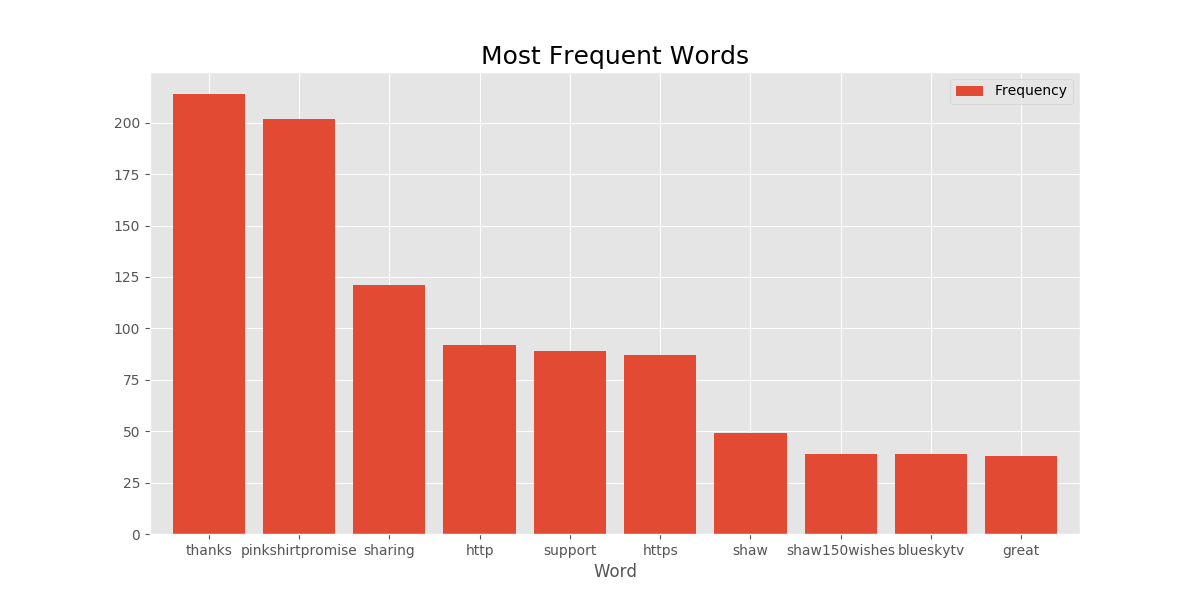
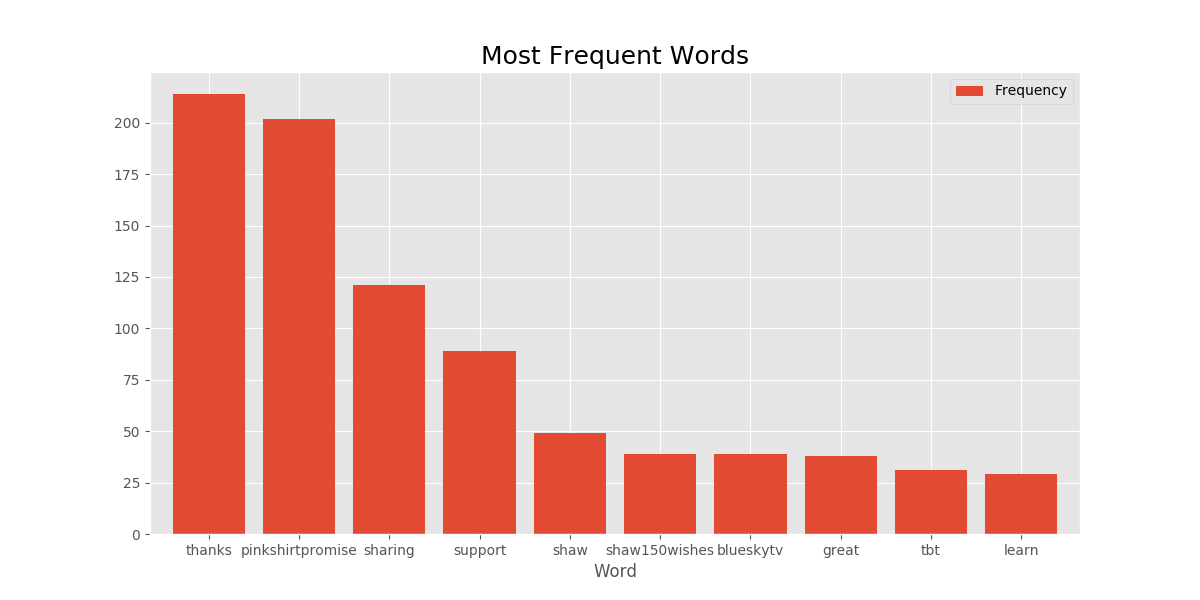
added a few more stopwords to freq count

diff --git a/WordFrequency.py b/WordFrequency.py
@@ -33,6 +33,9 @@ def clean_tweet(tweet):
 
 def count_words(text):
     stopwords = nltk.corpus.stopwords.words('english')
+    stopwords.append('https')
+    stopwords.append('http')
+    stopwords.append('im')
     # RegEx for stopwords
     RE_stopwords = r'\b(?:{})\b'.format('|'.join(stopwords))
     # replace '|'-->' ' and drop all stopwords
